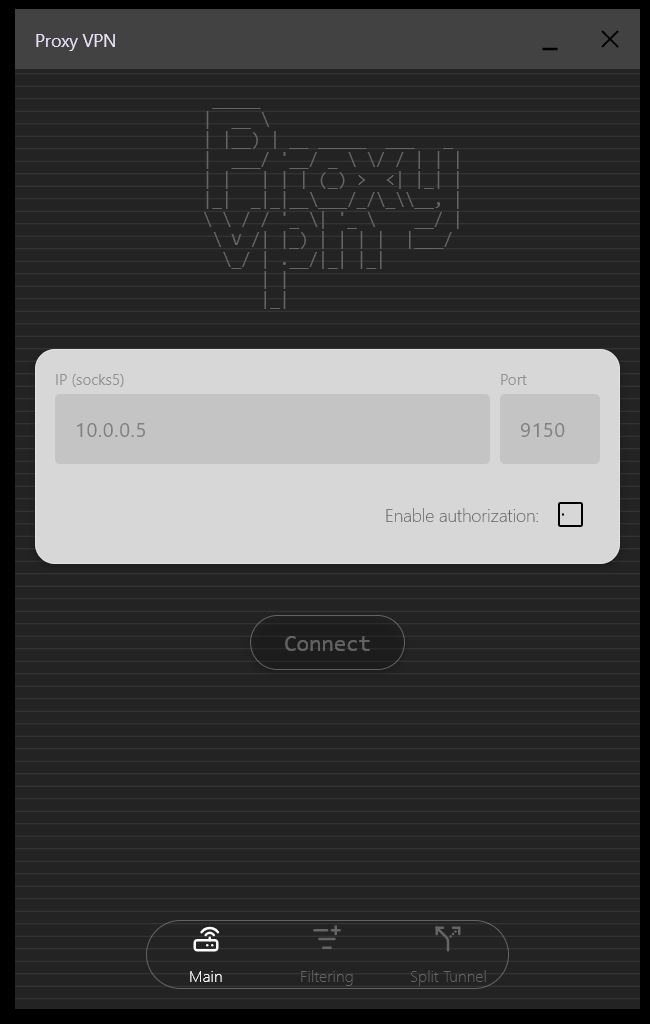
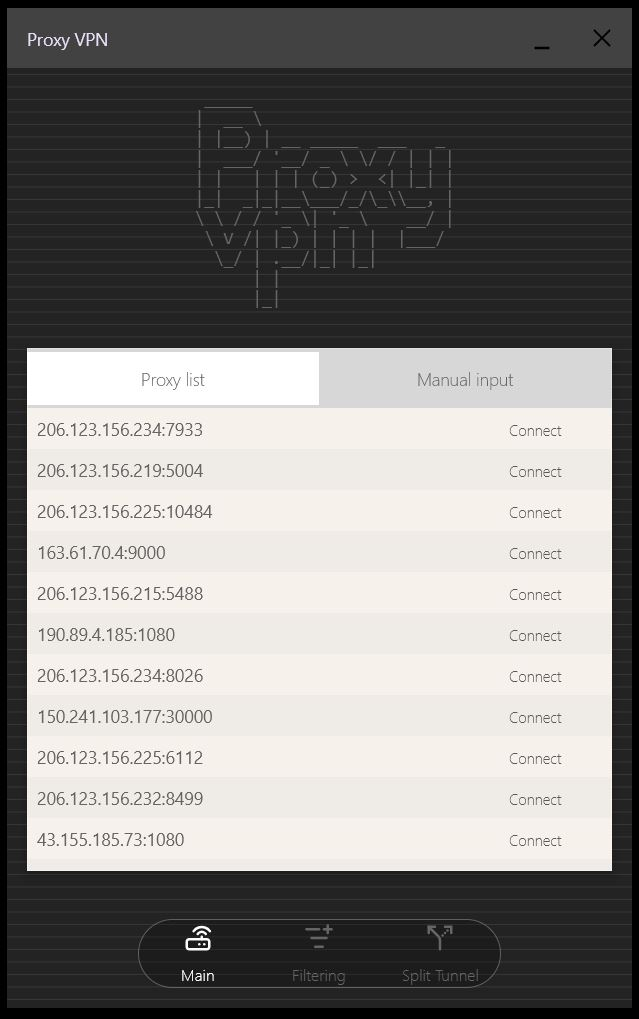
Readme update.

diff --git a/README.md b/README.md
@@ -19,9 +19,9 @@ networking engine to handle secure tunneling and proxying.
 - **Windows**: Desktop application for secure connectivity on JVM-based systems.
 
   ### Windows Demo
-  | *Main Screen*      | *DNS Filtering Feature*       | *Split Tunneling Feature*       |
-  |-------------------|--------------------|--------------------|
-  | ![UI](demo/desktop1.jpg) | ![UI](demo/desktop2.jpg) | ![UI](demo/desktop3.jpg)  |
+  | *Main Screen (Proxy list)* | *Main screen (Manual input)* | *DNS Filtering Feature*  | *Split Tunneling Feature*       |
+    |----------------------------|------------------------------|--------------------------|--------------------|
+  | ![UI](demo/desktop1.jpg)   | ![UI](demo/desktop4.jpg)     | ![UI](demo/desktop2.jpg) | ![UI](demo/desktop3.jpg) |
   
 ## Features
 
@@ -29,6 +29,11 @@ networking engine to handle secure tunneling and proxying.
 - **Split Tunneling**: Choose which apps route through the VPN.
 - **DNS Filtering**: Block unwanted domains at the network level.
 - **Shared UI/Logic**: Built with Compose Multiplatform and Decompose for efficient development.
+
+## Credits
+
+- **Proxy List**: This project uses a public proxy list provided
+  by [proxifly/free-proxy-list](https://github.com/proxifly/free-proxy-list).
 
 ## Project Structure
 
